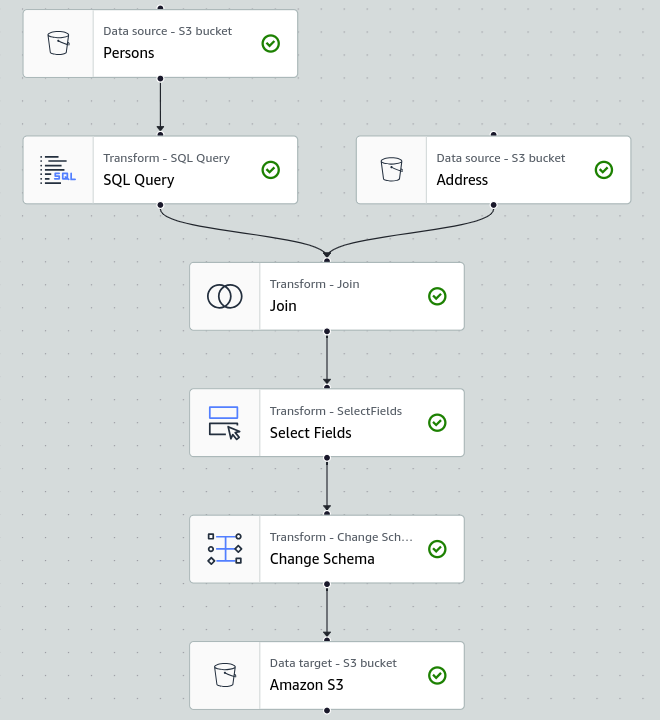
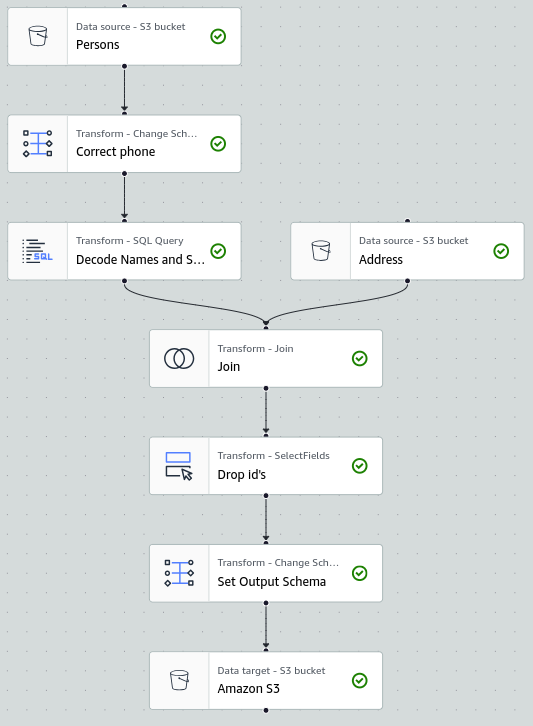
:bug: fix: Update Glue to have the right iam role

diff --git a/README.md b/README.md
@@ -31,7 +31,7 @@ serverless deploy --stage $TEAMNAME
 ```
 
 ### 1.2/ Update the index.html file
-Download the 'index.html' file and Replace the API_GATEWAY_URL variable with the generated API gateway url from the deployed stack.
+In the 'index.html' file, replace the **API_GATEWAY_URL** variable with the generated API gateway url from the deployed stack.
 
 ### 1.3/ Upload the index.html file to your website bucket
 ```bash
@@ -70,6 +70,7 @@ aws s3 sync s3://workshop-textract-images-$TEAMNAME ./data
 
 ### 2.4/ Concatenate the CSV files
 ```bash
+mkdir ./data/suspects
 cat ./data/*.csv > ./data/suspects/suspects.csv
 sed -i '/^$/d' ./data/suspects/suspects.csv
 ```
@@ -88,8 +89,9 @@ aws s3 cp ./data s3://workshop-textract-images-$TEAMNAME/address --recursive
 
 ### 3.2/ Create an IAM role for Glue
 ```bash
-aws iam create-role --role-name GlueServiceRole-$TEAMNAME --assume-role-policy-document file://glue-role.json
-aws iam attach-role-policy --role-name GlueServiceRole-$TEAMNAME --policy-arn arn:aws:iam::aws:policy/service-role/AWSGlueServiceRole
+aws iam create-policy --policy-name GlueOnboardingPolicy-$TEAMNAME --policy-document ./glue-policy.json
+aws iam create-role --role-name GlueOnboardingRole-$TEAMNAME --assume-role-policy-document ./glue-role.json
+aws iam attach-role-policy --role-name GlueOnboardingRole-$TEAMNAME --policy-arn arn:aws:iam::aws:policy/GlueOnboardingPolicy-$TEAMNAME
 ```
 
 ### 3.3/ Create the Glue database
@@ -110,7 +112,7 @@ Import the csv files from the S3 bucket.
 Transform the data using an SQL query.
 ```sql
 select
-cast(unbase64(trim(prenom)) as string) as prenom, cast(unhex(trim(nom)) as string) as nom, trim(id_adresse) as id_adresse
+cast(unbase64(trim(prenom)) as string) as prenom, cast(unhex(trim(nom)) as string) as nom, trim(telephone) as telephone, trim(id_adresse) as id_adresse
 from myDataSource
 ```
 
@@ -126,20 +128,16 @@ Export the results to the S3 bucket.
 
 Set the IAM role to the GlueServiceRole-$TEAMNAME role.
 
-### 3.5/ Create the Glue crawler
-```bash
-aws glue create-crawler --name glue-crawler-$TEAMNAME --role GlueServiceRole-$TEAMNAME --database-name glue-db-$TEAMNAME --targets S3Targets=[{Path=s3://workshop-textract-images-$TEAMNAME/results/}]
-```
 
-### 3.6/ Run the Glue crawler
-```bash
-aws glue start-crawler --name glue-crawler-$TEAMNAME
-```
-
-### 3.7/ Query the results in Athena
+### 3.5/ Query the results in Athena
 Search for Roza Otunbayeva in the results.
+Athena query : 
+```sql
+SELECT * FROM "glue-db-<TEAMNAME>"."results" WHERE "prenom" = 'Roza'
+```
+or using the cli :
 ```bash
-aws athena start-query-execution --query-string "SELECT * FROM \"glue-db-$TEAMNAME\".\"results\" WHERE \"Name\" = 'Roza'" --result-configuration OutputLocation=s3://workshop-textract-images-$TEAMNAME/query-results/
+aws athena start-query-execution --query-string "SELECT * FROM \"glue-db-$TEAMNAME\".\"results\" WHERE \"prenom\" = 'Roza'" --result-configuration OutputLocation=s3://workshop-textract-images-$TEAMNAME/query-results/
 ```
 
 
@@ -148,4 +146,7 @@ aws athena start-query-execution --query-string "SELECT * FROM \"glue-db-$TEAMNA
 aws s3 rm s3://workshop-textract-images-$TEAMNAME/ --recursive
 cd ../2-Textract
 serverless remove --stage $TEAMNAME
+aws iam detach-role-policy --role-name GlueOnboardingRole-$TEAMNAME --policy-arn arn:aws:iam::aws:policy/GlueOnboardingPolicy-$TEAMNAME
+aws iam delete-role --role-name GlueOnboardingRole-$TEAMNAME
+aws iam delete-policy --policy-arn arn:aws:iam::aws:policy/GlueOnboardingPolicy-$TEAMNAME
 ```
